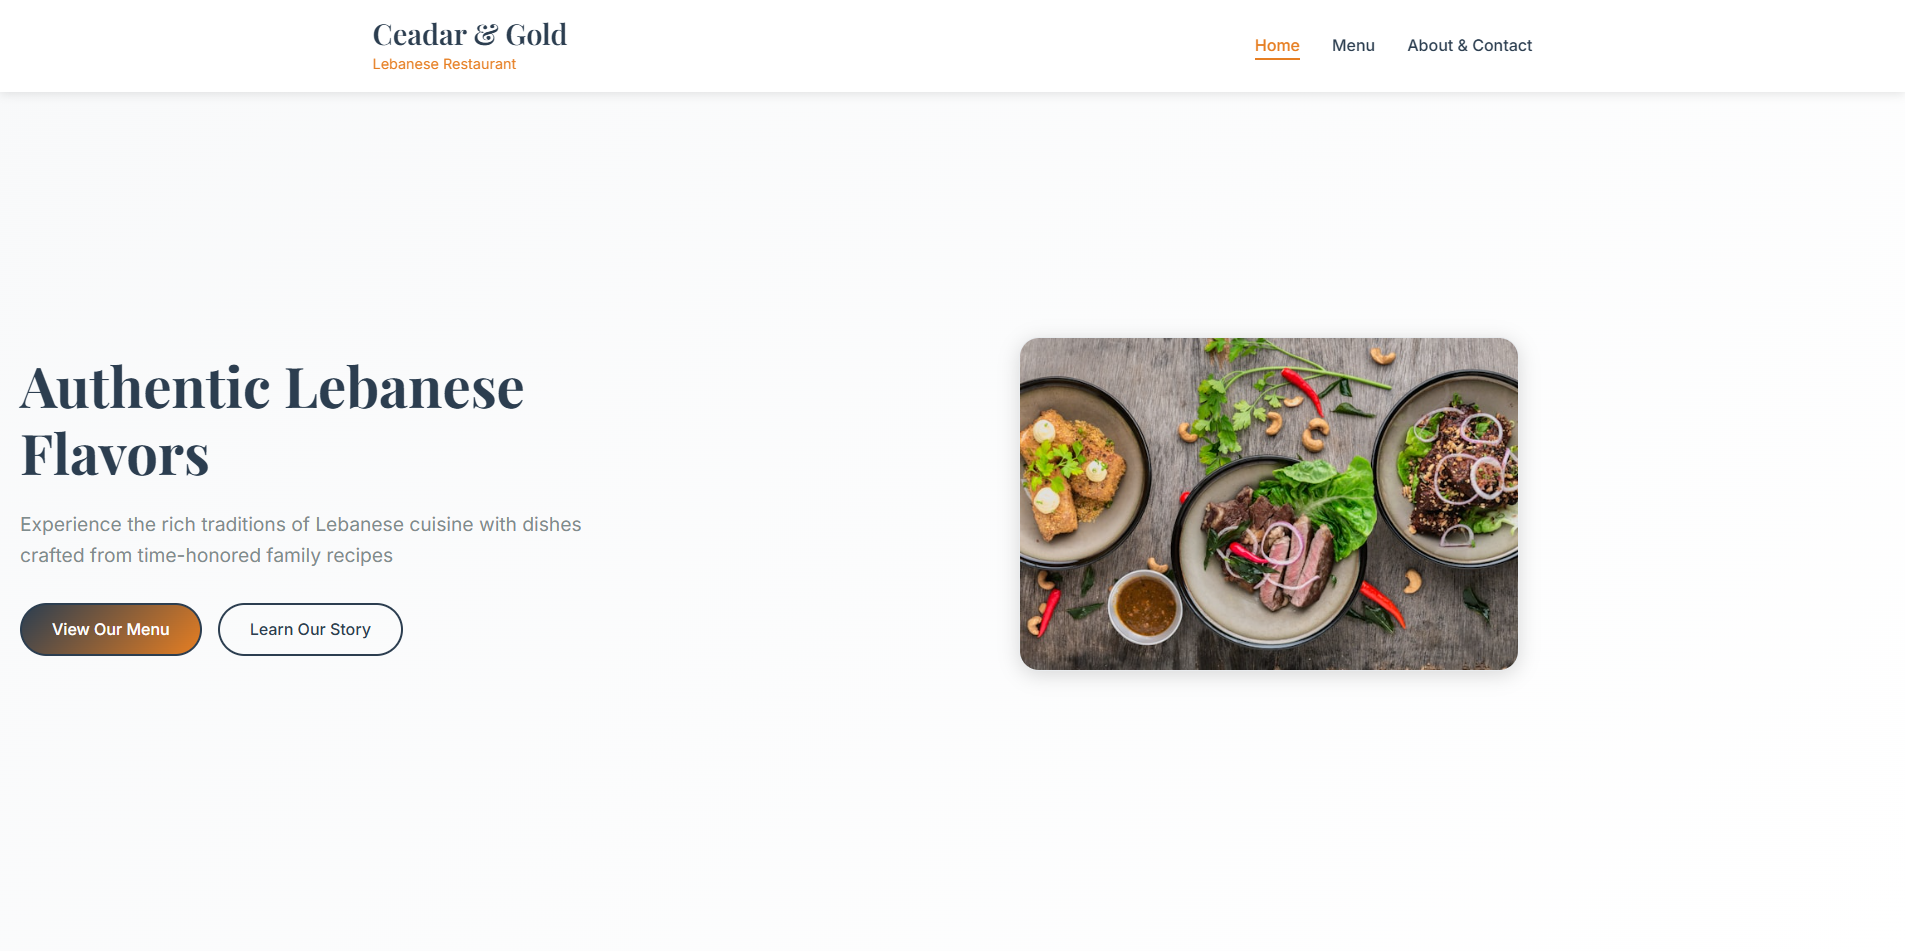
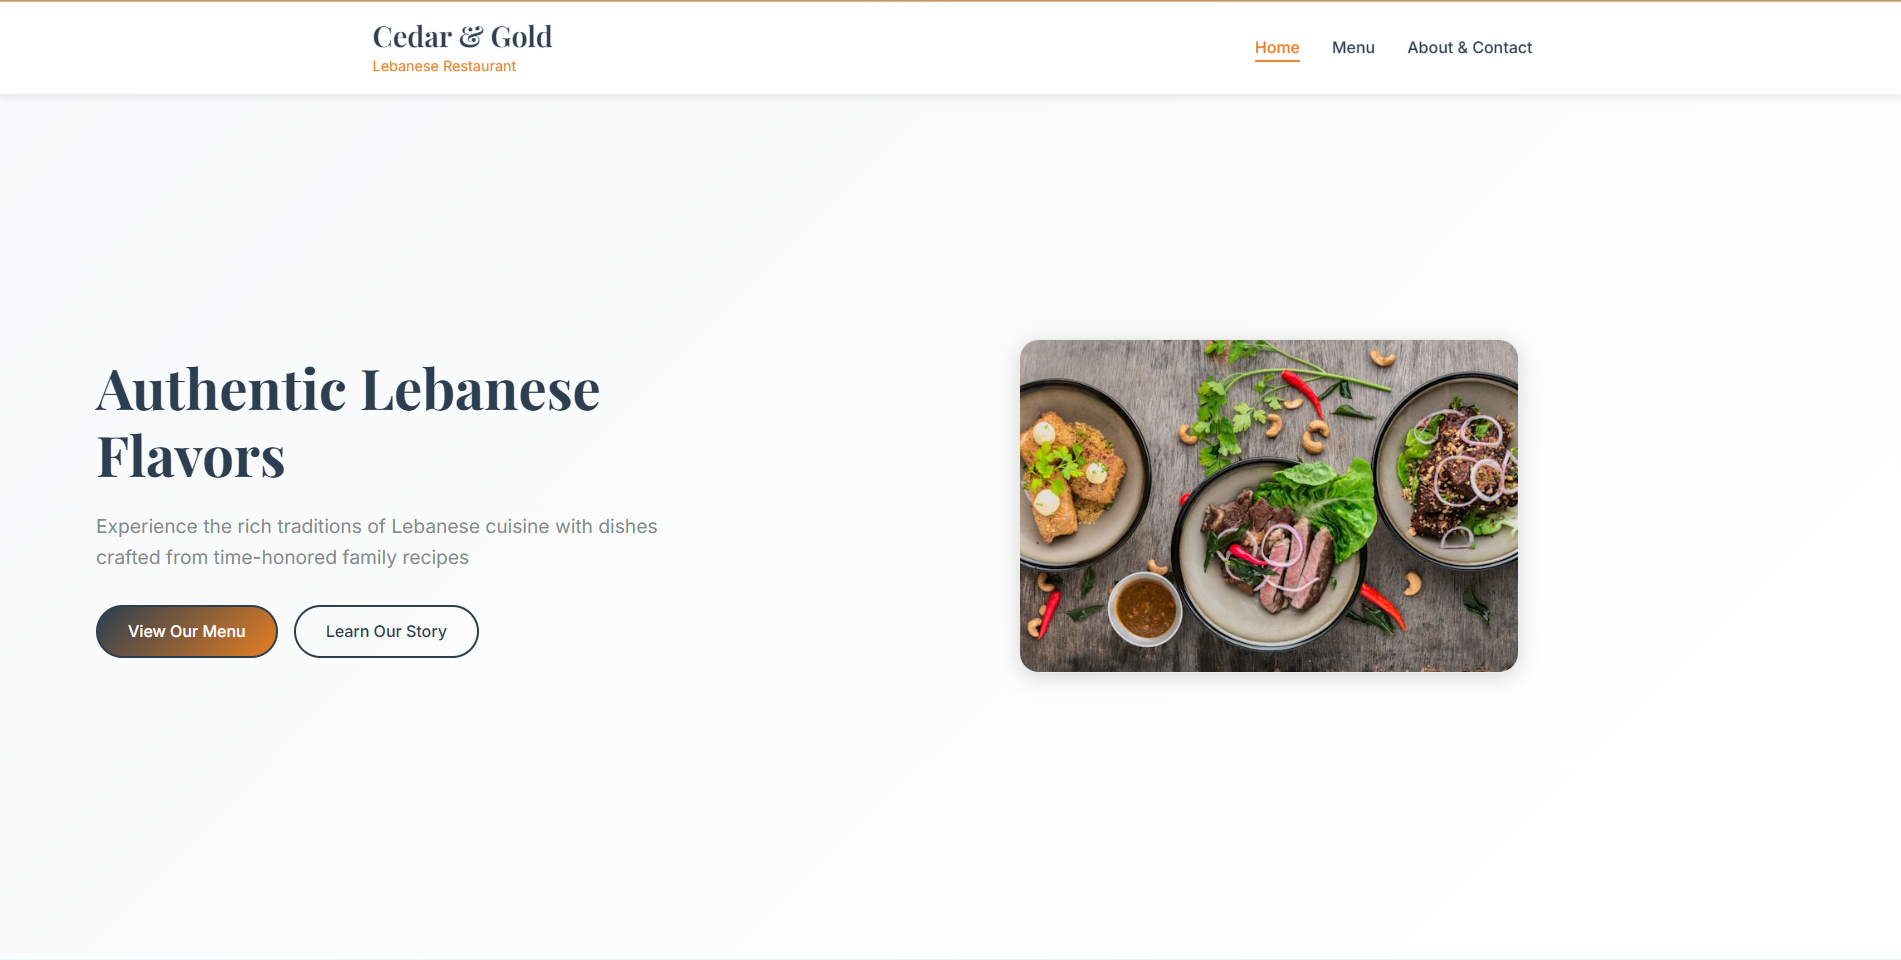
Rebuild complete project slideshow

diff --git a/docs/assets/home-BukRvJmL.js b/docs/assets/home-BukRvJmL.js
@@ -1,0 +1,34 @@
+import{r as o}from"./site-DGaqb7ik.js";const n="https://review.alphazonelabs.com/api/reviews/published";function r(t=""){return String(t).replaceAll("&","&amp;").replaceAll("<","&lt;").replaceAll(">","&gt;").replaceAll('"',"&quot;").replaceAll("'","&#039;")}function l(t){const e=Math.max(1,Math.min(5,Number(t.rating||5)));return`
+    <article class="published-review-card">
+      <p class="published-review-stars" aria-label="${e} out of 5 stars">${"★".repeat(e)}${"☆".repeat(5-e)}</p>
+      <blockquote>“${r(t.review_text)}”</blockquote>
+      <p class="published-review-name">${r(t.customer_name||"Alpha Zone Labs customer")}</p>
+    </article>
+  `}async function c(){if(!document.body.classList.contains("page-home"))return;const t=document.querySelector(".footer");if(t)try{const e=await fetch(n,{headers:{Accept:"application/json"}});if(!e.ok)return;const s=await e.json(),a=Array.isArray(s.reviews)?s.reviews:[];if(!a.length)return;const i=document.createElement("section");i.className="published-reviews-section",i.setAttribute("aria-labelledby","customer-reviews-title"),i.innerHTML=`
+      <div class="published-reviews-shell">
+        <div class="published-reviews-heading">
+          <p class="eyebrow">Customer feedback</p>
+          <h2 id="customer-reviews-title">What clients say.</h2>
+          <p>Approved feedback from businesses and organizations that have worked with Alpha Zone Labs.</p>
+        </div>
+        <div class="published-reviews-grid">${a.slice(0,6).map(l).join("")}</div>
+      </div>
+    `,t.before(i)}catch{}}const d=[{title:"Black Bridge Mindset",image:"./projects/bbm.png",alt:"Black Bridge Mindset website screenshot",href:"https://blackbridgemindset.com/"},{title:"Cedar & Gold Lebanese Restaurant",image:"./projects/cedar&gold_lebanese.png",alt:"Cedar and Gold Lebanese restaurant website screenshot",href:"https://hligon35.github.io/cedarngoldlebanese/"},{title:"Luxurious Cakes Indy",image:"./projects/luxurious_cakes.png",alt:"Luxurious Cakes Indy website screenshot",href:"https://www.luxuriouscakesindy.com/"},{title:"Life Prep Academy Foundation",image:"./projects/life_prep_academy_foundation.png",alt:"Life Prep Academy Foundation website screenshot",href:"https://www.lifeprepacademyfoundation.com/"},{title:"The Bear Voice",image:"./projects/bearVoice.png",alt:"The Bear Voice interactive website screenshot",href:"https://hligon35.github.io/thebearvoice/"},{title:"MMBC",image:"./projects/non-profit.png",alt:"MMBC digital business card tool screenshot",href:"https://hligon35.github.io/mmmbc/"}];function h(){const t=document.querySelector(".work-showcase-slider");if(!t)return;t.innerHTML=d.map((a,i)=>`
+    <a
+      class="work-showcase-slide${i===0?" is-active":""}"
+      href="${a.href}"
+      target="_blank"
+      rel="noreferrer"
+      aria-hidden="${i===0?"false":"true"}"
+    >
+      <picture>
+        <img
+          src="${a.image}"
+          alt="${a.alt}"
+          loading="${i===0?"eager":"lazy"}"
+          decoding="async"
+        >
+      </picture>
+      <span>${a.title}</span>
+    </a>
+  `).join("");const e=[...t.querySelectorAll(".work-showcase-slide")];if(e.length<2)return;let s=0;window.setInterval(()=>{e[s].classList.remove("is-active"),e[s].setAttribute("aria-hidden","true"),s=(s+1)%e.length,e[s].classList.add("is-active"),e[s].setAttribute("aria-hidden","false")},3e3)}o("home");h();c();

diff --git a/docs/assets/portfolio-7C7AFWLJ.js b/docs/assets/portfolio-7C7AFWLJ.js
@@ -1,0 +1,17 @@
+import{r as a}from"./site-DGaqb7ik.js";const i=[{type:"website",label:"Interactive web experience",title:"The Bear Voice",image:"./projects/bearVoice.png",alt:"The Bear Voice interactive website screenshot",problem:"The concept needed a memorable interactive experience that could demonstrate voice-driven engagement in a simple browser-based format.",changed:"A focused web experience was created around voice interaction, themed audio, and a distinctive bear-centered presentation.",impact:"A more engaging demonstration of interactive media capabilities with a clear, playful identity.",href:"https://hligon35.github.io/thebearvoice/"},{type:"systems",label:"Digital business tool",title:"MMBC",image:"./projects/non-profit.png",alt:"MMBC digital business card tool screenshot",problem:"Users needed a faster way to create and share a professional digital business card without relying on scattered files or manual formatting.",changed:"A customizable business card experience was organized around editable details, reusable layouts, and straightforward sharing.",impact:"A more efficient way to present professional information and distribute it digitally.",href:"https://hligon35.github.io/mmmbc/"}];function n(e){return`
+    <article class="portfolio-card" data-category="${e.type}">
+      <picture>
+        <img src="${e.image}" alt="${e.alt}" loading="lazy" decoding="async">
+      </picture>
+      <div class="portfolio-card__body">
+        <span class="portfolio-label">${e.label}</span>
+        <h3>${e.title}</h3>
+        <div class="portfolio-card__details">
+          <p><strong>Problem</strong><span>${e.problem}</span></p>
+          <p><strong>What changed</strong><span>${e.changed}</span></p>
+          <p><strong>Impact</strong><span>${e.impact}</span></p>
+        </div>
+        <a class="cta-btn secondary portfolio-card__button" href="${e.href}" target="_blank" rel="noreferrer">View Live Project</a>
+      </div>
+    </article>
+  `}function c(){const e=document.querySelector(".page-work .portfolio-grid");e&&i.forEach(t=>{if(e.querySelector(`[data-product-title="${t.title}"]`))return;const r=document.createElement("template");r.innerHTML=n(t).trim();const o=r.content.firstElementChild;o.dataset.productTitle=t.title,e.appendChild(o)})}a("portfolio");c();l();s();function l(){document.querySelectorAll(".page-work .portfolio-card picture").forEach(e=>{e.querySelector('img[src*="cedar&gold_lebanese.png"]')&&e.querySelectorAll("source").forEach(r=>r.remove())})}function s(){document.querySelectorAll(".page-work .portfolio-card").forEach(e=>{var r;(r=e.querySelector(".portfolio-card__toggle"))==null||r.remove(),e.setAttribute("tabindex","0");const t=e.querySelector(".portfolio-card__details");t&&t.removeAttribute("aria-hidden")})}

diff --git a/docs/portfolio.html b/docs/portfolio.html
@@ -10,7 +10,7 @@
     <meta name="author" content="Alpha Zone Labs" />
     <link rel="canonical" href="https://alphazonelabs.com/portfolio.html" />
     <link rel="sitemap" type="application/xml" href="https://alphazonelabs.com/sitemap.xml" />
-    <script type="module" crossorigin src="./assets/portfolio-DqmRtThs.js"></script>
+    <script type="module" crossorigin src="./assets/portfolio-7C7AFWLJ.js"></script>
     <link rel="modulepreload" crossorigin href="./assets/site-DGaqb7ik.js">
     <link rel="stylesheet" crossorigin href="./assets/site-EmvkLpqf.css">
     <link rel="stylesheet" crossorigin href="./assets/portfolio-xzKJyaqP.css">

diff --git a/docs/index.html b/docs/index.html
@@ -10,7 +10,7 @@
     <meta name="author" content="Alpha Zone Labs" />
     <link rel="canonical" href="https://alphazonelabs.com/" />
     <link rel="sitemap" type="application/xml" href="https://alphazonelabs.com/sitemap.xml" />
-    <script type="module" crossorigin src="./assets/home-CpiCL9MO.js"></script>
+    <script type="module" crossorigin src="./assets/home-BukRvJmL.js"></script>
     <link rel="modulepreload" crossorigin href="./assets/site-DGaqb7ik.js">
     <link rel="stylesheet" crossorigin href="./assets/site-EmvkLpqf.css">
     <link rel="stylesheet" crossorigin href="./assets/home-GcjL8hmm.css">
